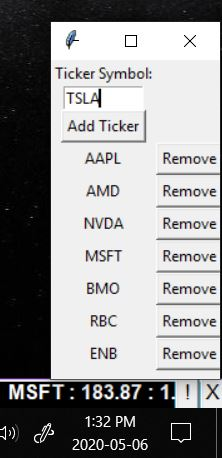
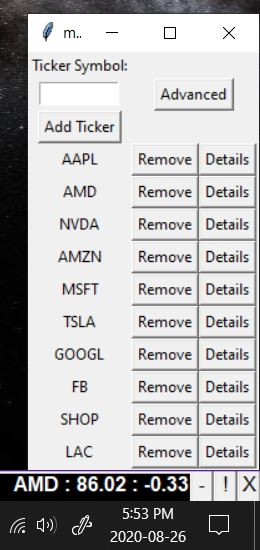
Updateded README and screen shots

diff --git a/README.md b/README.md
@@ -1,43 +1,83 @@
 # stockTicker
 
-A simple stock ticker using tkinter and yfinance api
+A stock ticker using tkinter and yfinance
+
+![](ScreenShots/Full_Tool.JPG)
 
 ## Ticker Functionality
 
-**Initalization**
+**Initialization**
 
-On initalization, a bar will be drawn above windows taskbar with two buttons on the right side: Menu(!), and Close(X).
+On initialization, a bar will be drawn above windows taskbar with three buttons on the right side: Minimize(-), Menu(!), and Close(X).
 
-![](ScreenShots/Inital%20Display.JPG)
+![](ScreenShots/Inital_Display.JPG)
 
 **TickerTape**
 
-A list of ticker symbols will be imported from the data.txt file and a call through yahoo finance API will be made to fetch current market data.
-Data will be displayed on the ticker tape in the format [Sym, Mkt Price, Daily Change], and reported in US dollars
+A list of ticker symbols will be imported from the data.db file and a call through yahoo finance API will be made to fetch current market data.
+Data will be displayed on the ticker tape in the format [Sym : Mkt Price : Daily Change]. The refresh time for the data can be customized through the advanced menu.
 
-![](ScreenShots/TickerTape.JPG)
+Ticker Inital Run
+![](ScreenShots/Ticker_Running.JPG)
+
+Ticker Fully Populate
+![](ScreenShots/Ticker_Tape.JPG)
+
+Ticker Reset
+![](ScreenShots/Ticker_Tape.JPG)
 
 The ticker symbols can be modified through the menu (discussed below).
 
-## Menu Functionality
+## Minimizing The Display
+To minimize the display, click the minimize button (-) in the bottom right corner.
+The ticker tape will be replaced with a (+) button in the bottom right corner that will restore the ticker tape when pressed.
+
+![](ScreenShots/Min.JPG)
+
+## Menu
 
 **Accessing Menu**
 
-The menu can be opened by clicking the menu(!) button in the bottom right cornner.
-Any updates made through the menu will not be displayed in the Ticker Tape until
-a timed call to the Yahoo finance api is made. (Default Refresh Time = 1 min)
+The menu can be opened by clicking the menu(!) button in the bottom right corner.
+Once an update is made through the menu, the ticker tape will reset and include any changes.
 
 ![](ScreenShots/Menu.JPG)
 
 **Adding Ticker Symbols**
 
-Enter desired symbol in the input box and click 'Add Ticker'.
-The menu should automatically resize and update, incorporating the new symbol.
+To add a stock to the ticker list, enter desired symbol in the input box and click 'Add Ticker'.
+The menu will automatically resize and update, incorporating the new symbol.
 If the symbol is already in the ticker list, it will not be added.
 
 **Removing Ticker Symbols**
 
-Ticker symbols can be removed by pressing the remove button adjacent to the symbol 
+Ticker symbols can be removed by pressing the 'Remove' button adjacent to the symbol.
+
+## Details
+
+To view details for any stock selected, press the 'Details' button adjacent to the symbol located in the menu.
+The newly launched window will show the information on the stock price, future earnings releases as well as past dividends and stock splits.
+A grid displaying available options will also be shown. Please note that that a subset of the options data will be shown based on volume and open interest filters located in the advanced menu.
+
+![](ScreenShots/Details_Menu.JPG)
+
+To filter options by a particular type (Call/Put), expiration date, or strike price, enter the value in the respective input box and press the filter button.
+Filters will be maintained when options refresh.
+
+![](ScreenShots/Details_Menu_Filters.JPG)
+
+## Advanced Menu
+
+To open the advanced menu, press the advanced button located in the menu. Through the advanced menu, settings for the stock ticker can be customized.
+
+![](ScreenShots/Advanced_Menu.JPG)
+
+**Email Alerts**
+
+To enable email alerts, insure that the 'Send Emails' control is set to 'True'.
+Populate the 'From Address' and 'To Address' field with the desired email address (ex. "JohnDoe@Outlook.com")
+Populate the password location field with the file path of a local text file containing the email password (ex. "C:\Users\JohnDoe\MySecretFolder\Password.txt")
+It's recommended that an individual email account is set up for this application if email alerts are desired. 
 
 ## Instructions
 
